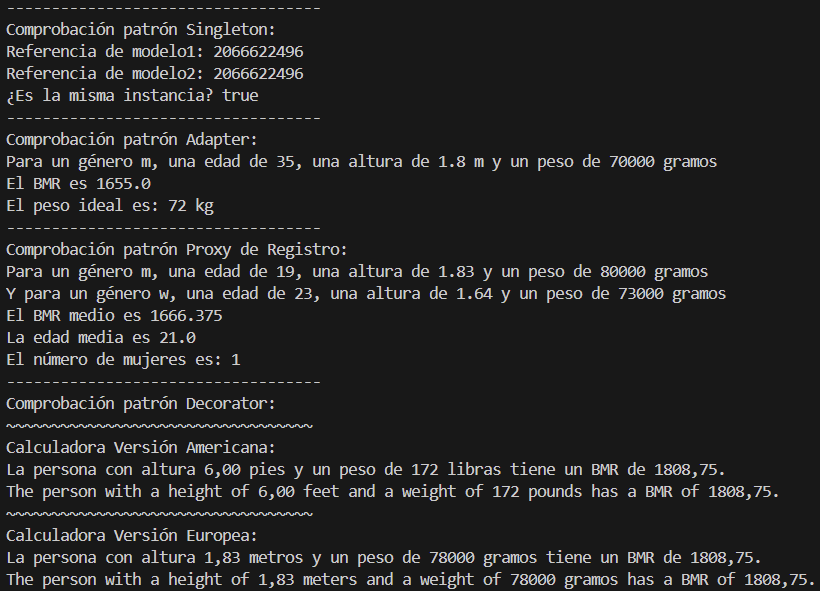
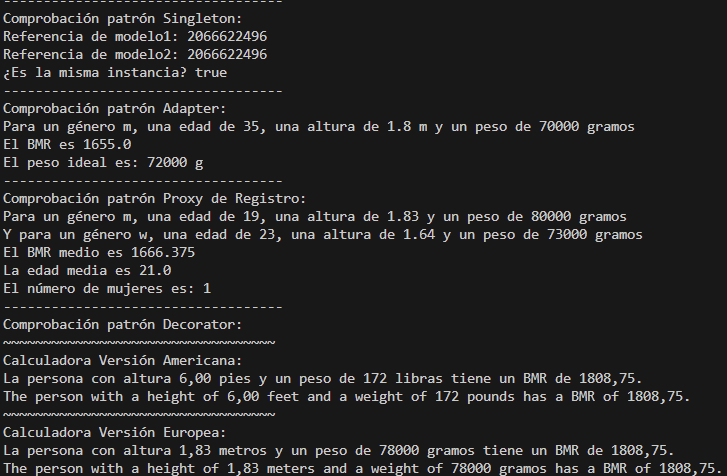
Corrección de conversión de unidades en el método peso ideal del Adapter

Changed region(s): [[0.0, 0.0, 0.8776, 0.6471], [0.0, 0.6471, 0.9986, 1.0]]

diff --git a/src/main/java/healthcalc/gui/Main.java b/src/main/java/healthcalc/gui/Main.java
@@ -53,7 +53,7 @@ public class Main {
 					System.out.println("Comprobación patrón Adapter:");
 					System.out.println("Para un género " + genero + ", una edad de " + edad + ", una altura de " + altura + " m y un peso de " + peso + " gramos");
 					System.out.println("El BMR es " + bmr);
-					System.out.println("El peso ideal es: " + pesoIdeal + " kg");
+					System.out.println("El peso ideal es: " + pesoIdeal + " g");
 
 					// Comprobamos si el Proxy está implementado correctamente.
 					HealthCalcProxy modeloProxy = new HealthCalcProxy();

diff --git a/src/main/java/healthcalc/HealthHospitalAdapter.java b/src/main/java/healthcalc/HealthHospitalAdapter.java
@@ -25,7 +25,7 @@ public class HealthHospitalAdapter implements HealthHospital {
         int alturaEnCm = (int)(altura*100);
         
         try {
-            return (int)calculadora.idealWeight(alturaEnCm, genero);
+            return (int)calculadora.idealWeight(alturaEnCm, genero)*1000;   // Devuelve el peso ideal en gramos
         } catch(Exception e) {
             throw new Exception("No se ha podido calcular el peso ideal.");
         }
